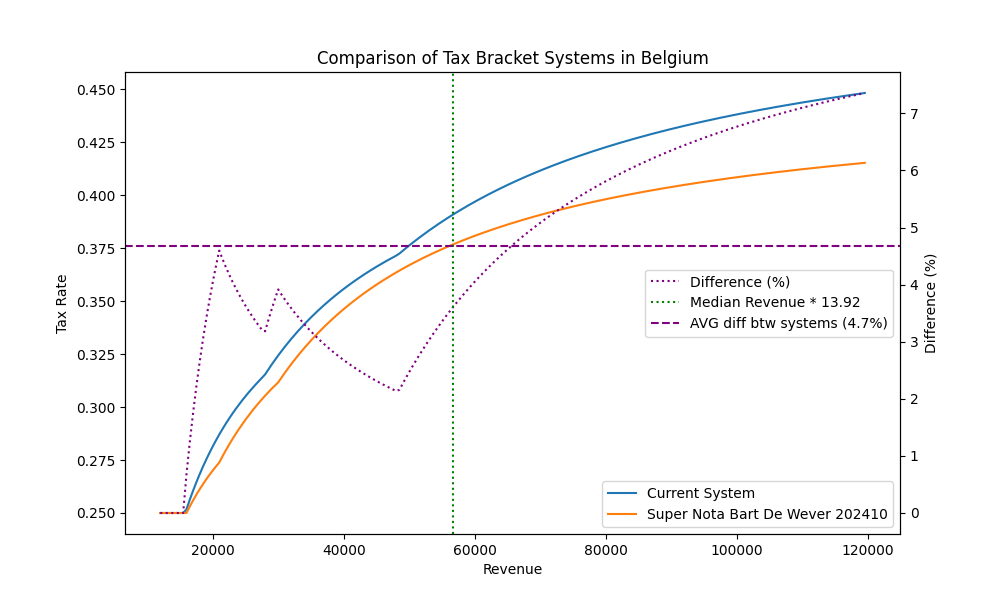
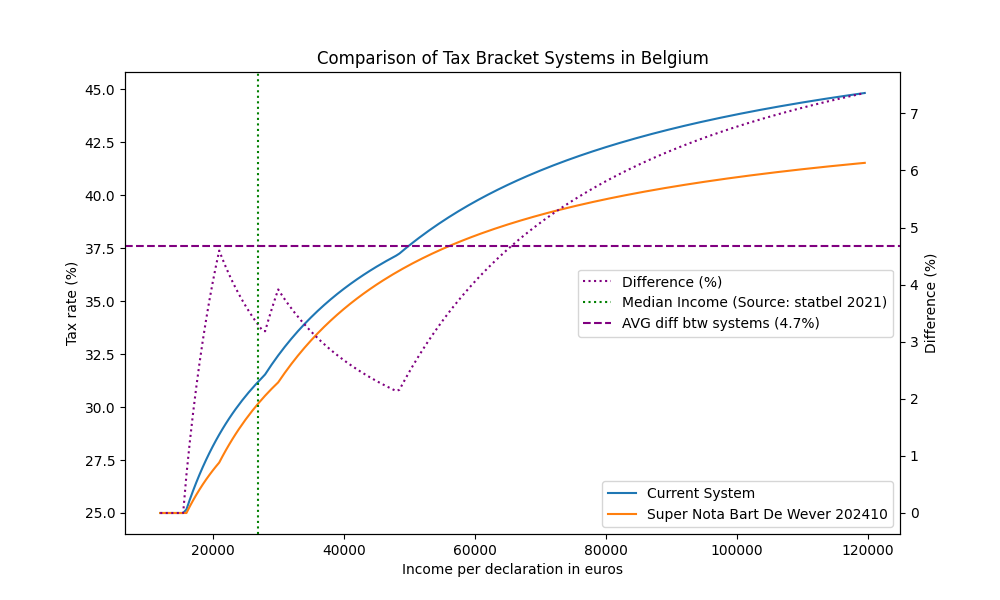
Refactor tax report plotting and update axis labels

diff --git a/imposition.py b/imposition.py
@@ -73,8 +73,8 @@ def enrich_data(df) -> pd.DataFrame:
     """
     Enrich data from a DataFrame.
     """
-    df['rate_super_nota_bart_de_wever_202410'] = df['super_nota_bart_de_wever_202410_tax'] / df['revenue']
-    df['rate_current_system'] = df['current_system_tax'] / df['revenue']
+    df['rate_super_nota_bart_de_wever_202410'] = df['super_nota_bart_de_wever_202410_tax'] / df['revenue'] * 100
+    df['rate_current_system'] = df['current_system_tax'] / df['revenue'] * 100
     df['diff'] = ((df['rate_current_system'] - df['rate_super_nota_bart_de_wever_202410']) / df['rate_current_system']).abs() * 100
     df.to_csv("./imposition.csv", index=False)
     return df
@@ -86,8 +86,8 @@ def plot_tax_report(df, output_image) -> None:
     plt.figure(figsize=(10, 6))
     plt.plot(df['revenue'], df['rate_current_system'], label='Current System')
     plt.plot(df['revenue'], df['rate_super_nota_bart_de_wever_202410'], label='Super Nota Bart De Wever 202410')
-    plt.xlabel('Revenue')
-    plt.ylabel('Tax Rate')
+    plt.xlabel('Income per declaration in euros')
+    plt.ylabel('Tax rate (%)')
     plt.title('Comparison of Tax Bracket Systems in Belgium')
     plt.legend(loc='lower right')
 
@@ -97,7 +97,8 @@ def plot_tax_report(df, output_image) -> None:
     ax2.set_ylabel('Difference (%)')
 
     # Add a line for median revenue at 4,076 euros per month (2022 data statbel)
-    plt.axvline(x=4076 * 13.92, color='green', linestyle=':', label='Median Revenue * 13.92')
+    # plt.axvline(x=4076 * 13.92, color='green', linestyle=':', label='Median Revenue * 13.92')
+    plt.axvline(x=26917, color='green', linestyle=':', label='Median Income (Source: statbel 2021)')
     
     # for decile in deciles_salaries_in_belgium:
     #     plt.axvline(x=decile['salary'] * 13.92, color='red', linestyle='--', label=f"Decile {decile['decile']}")
